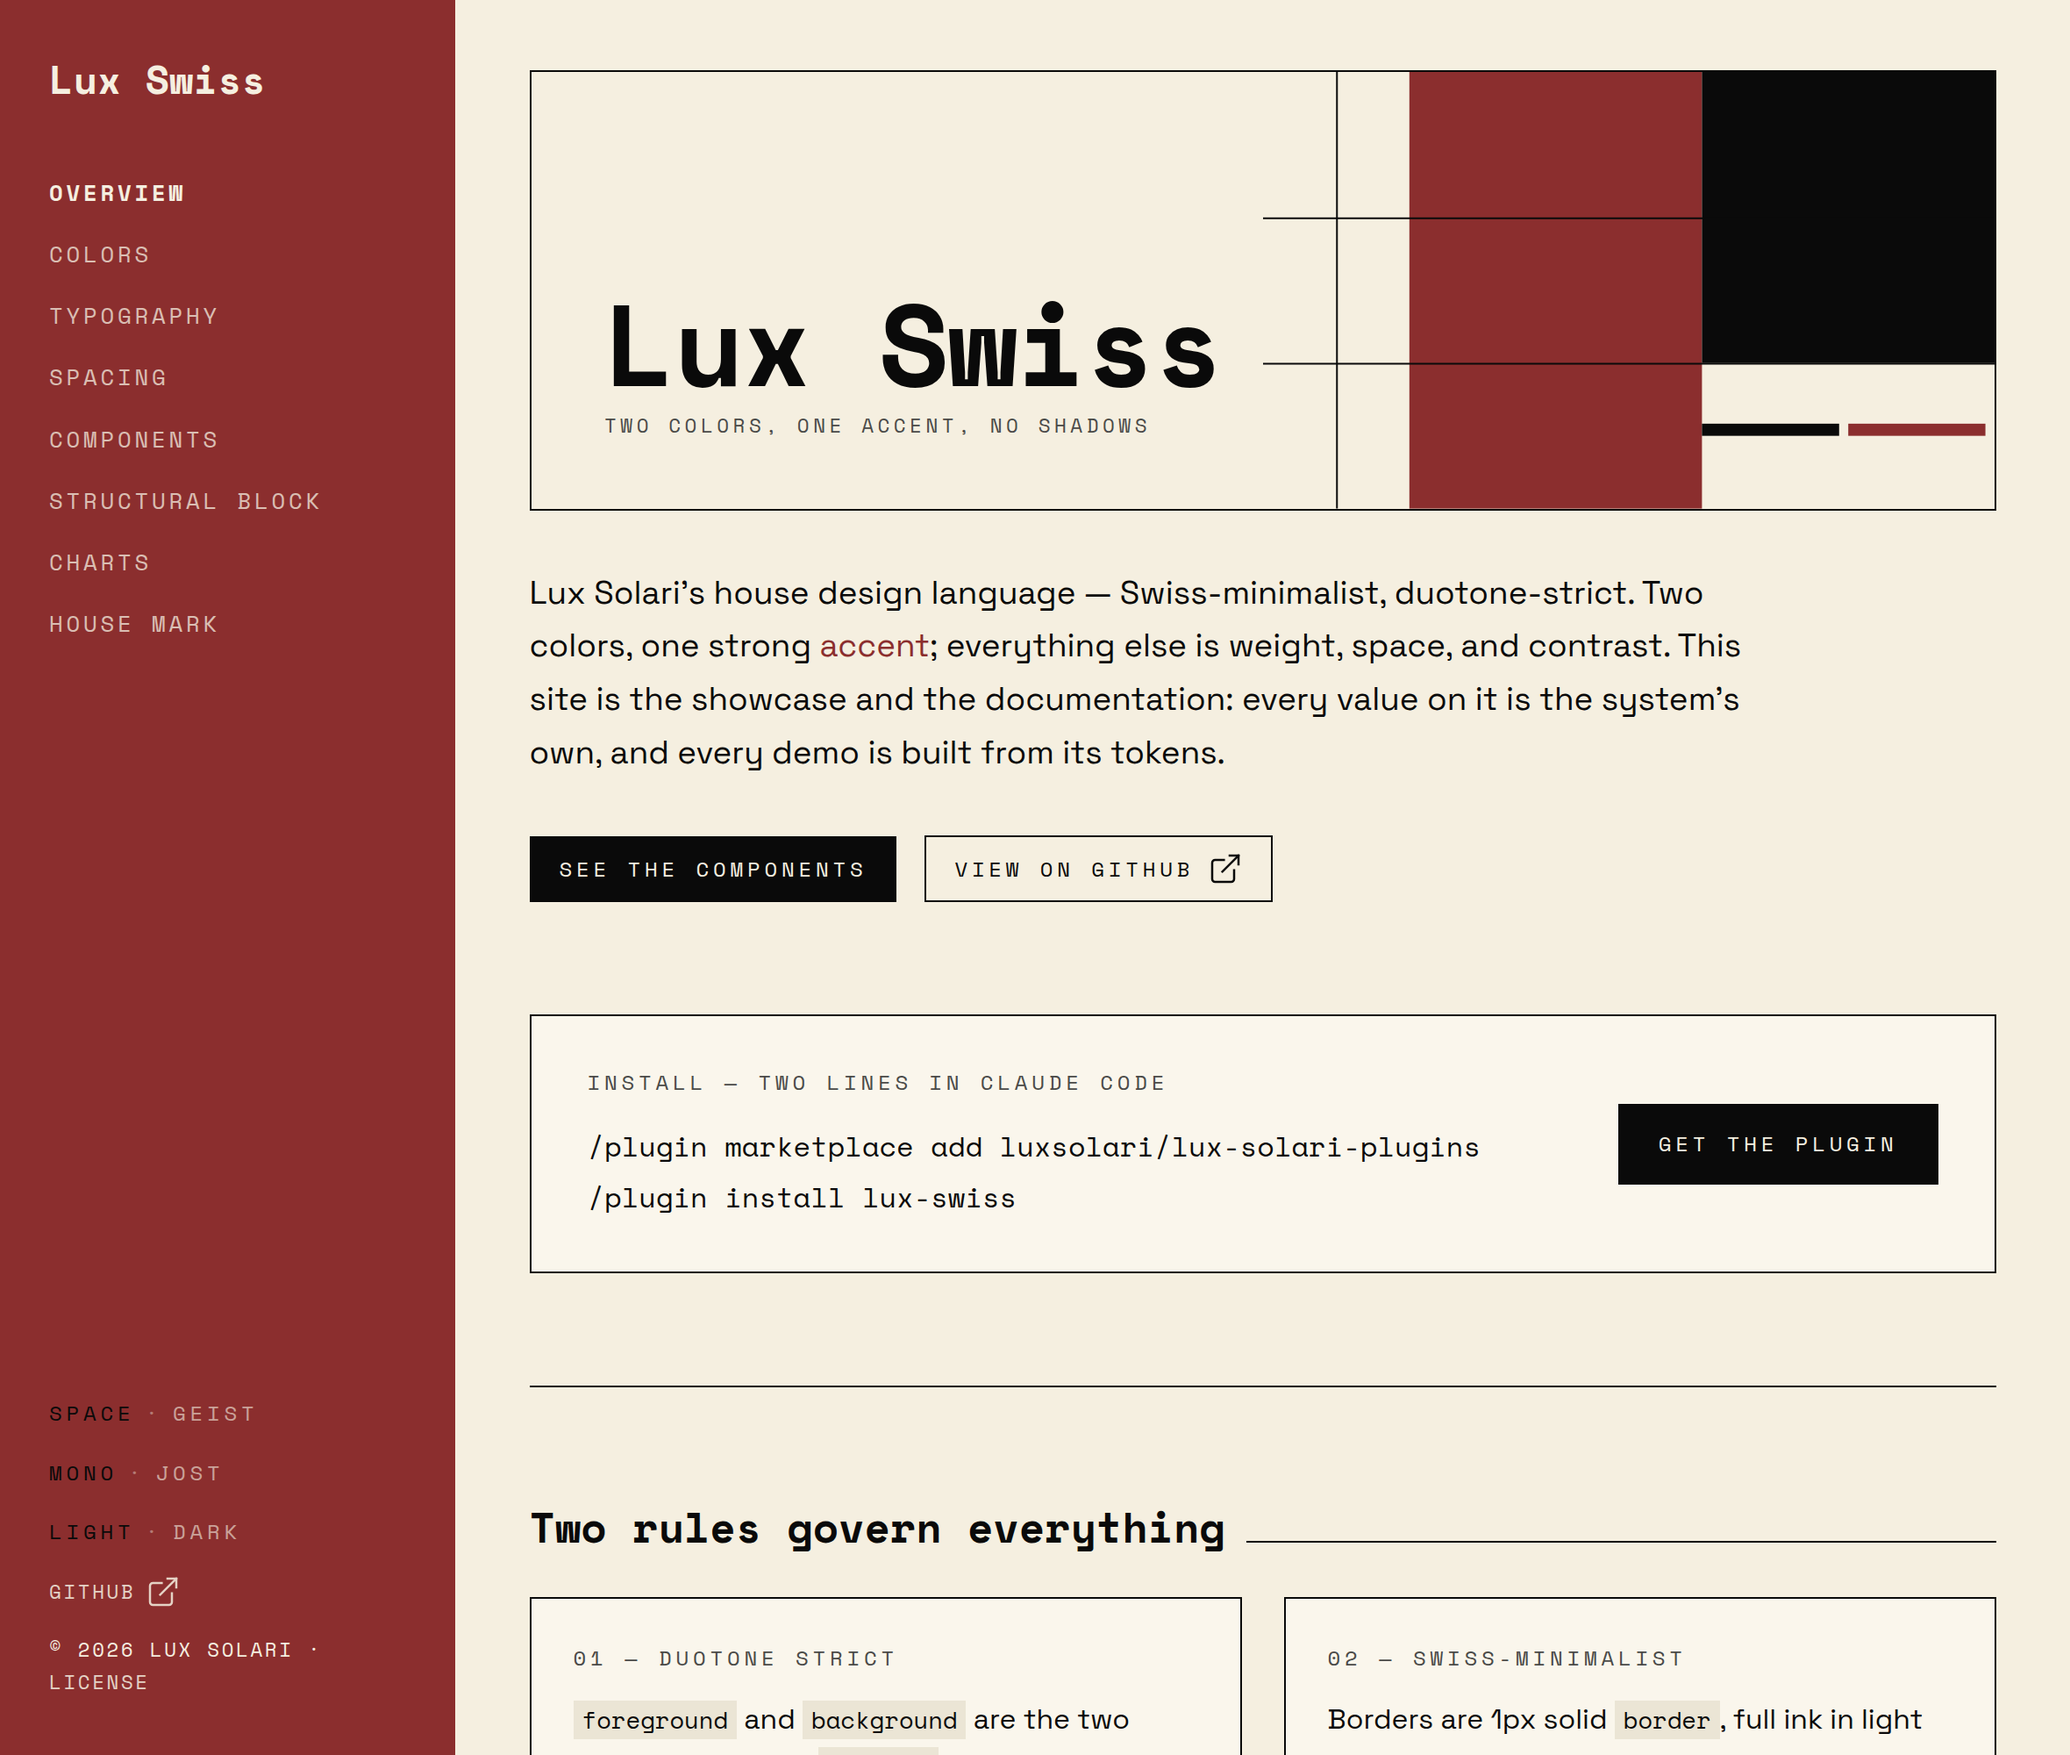
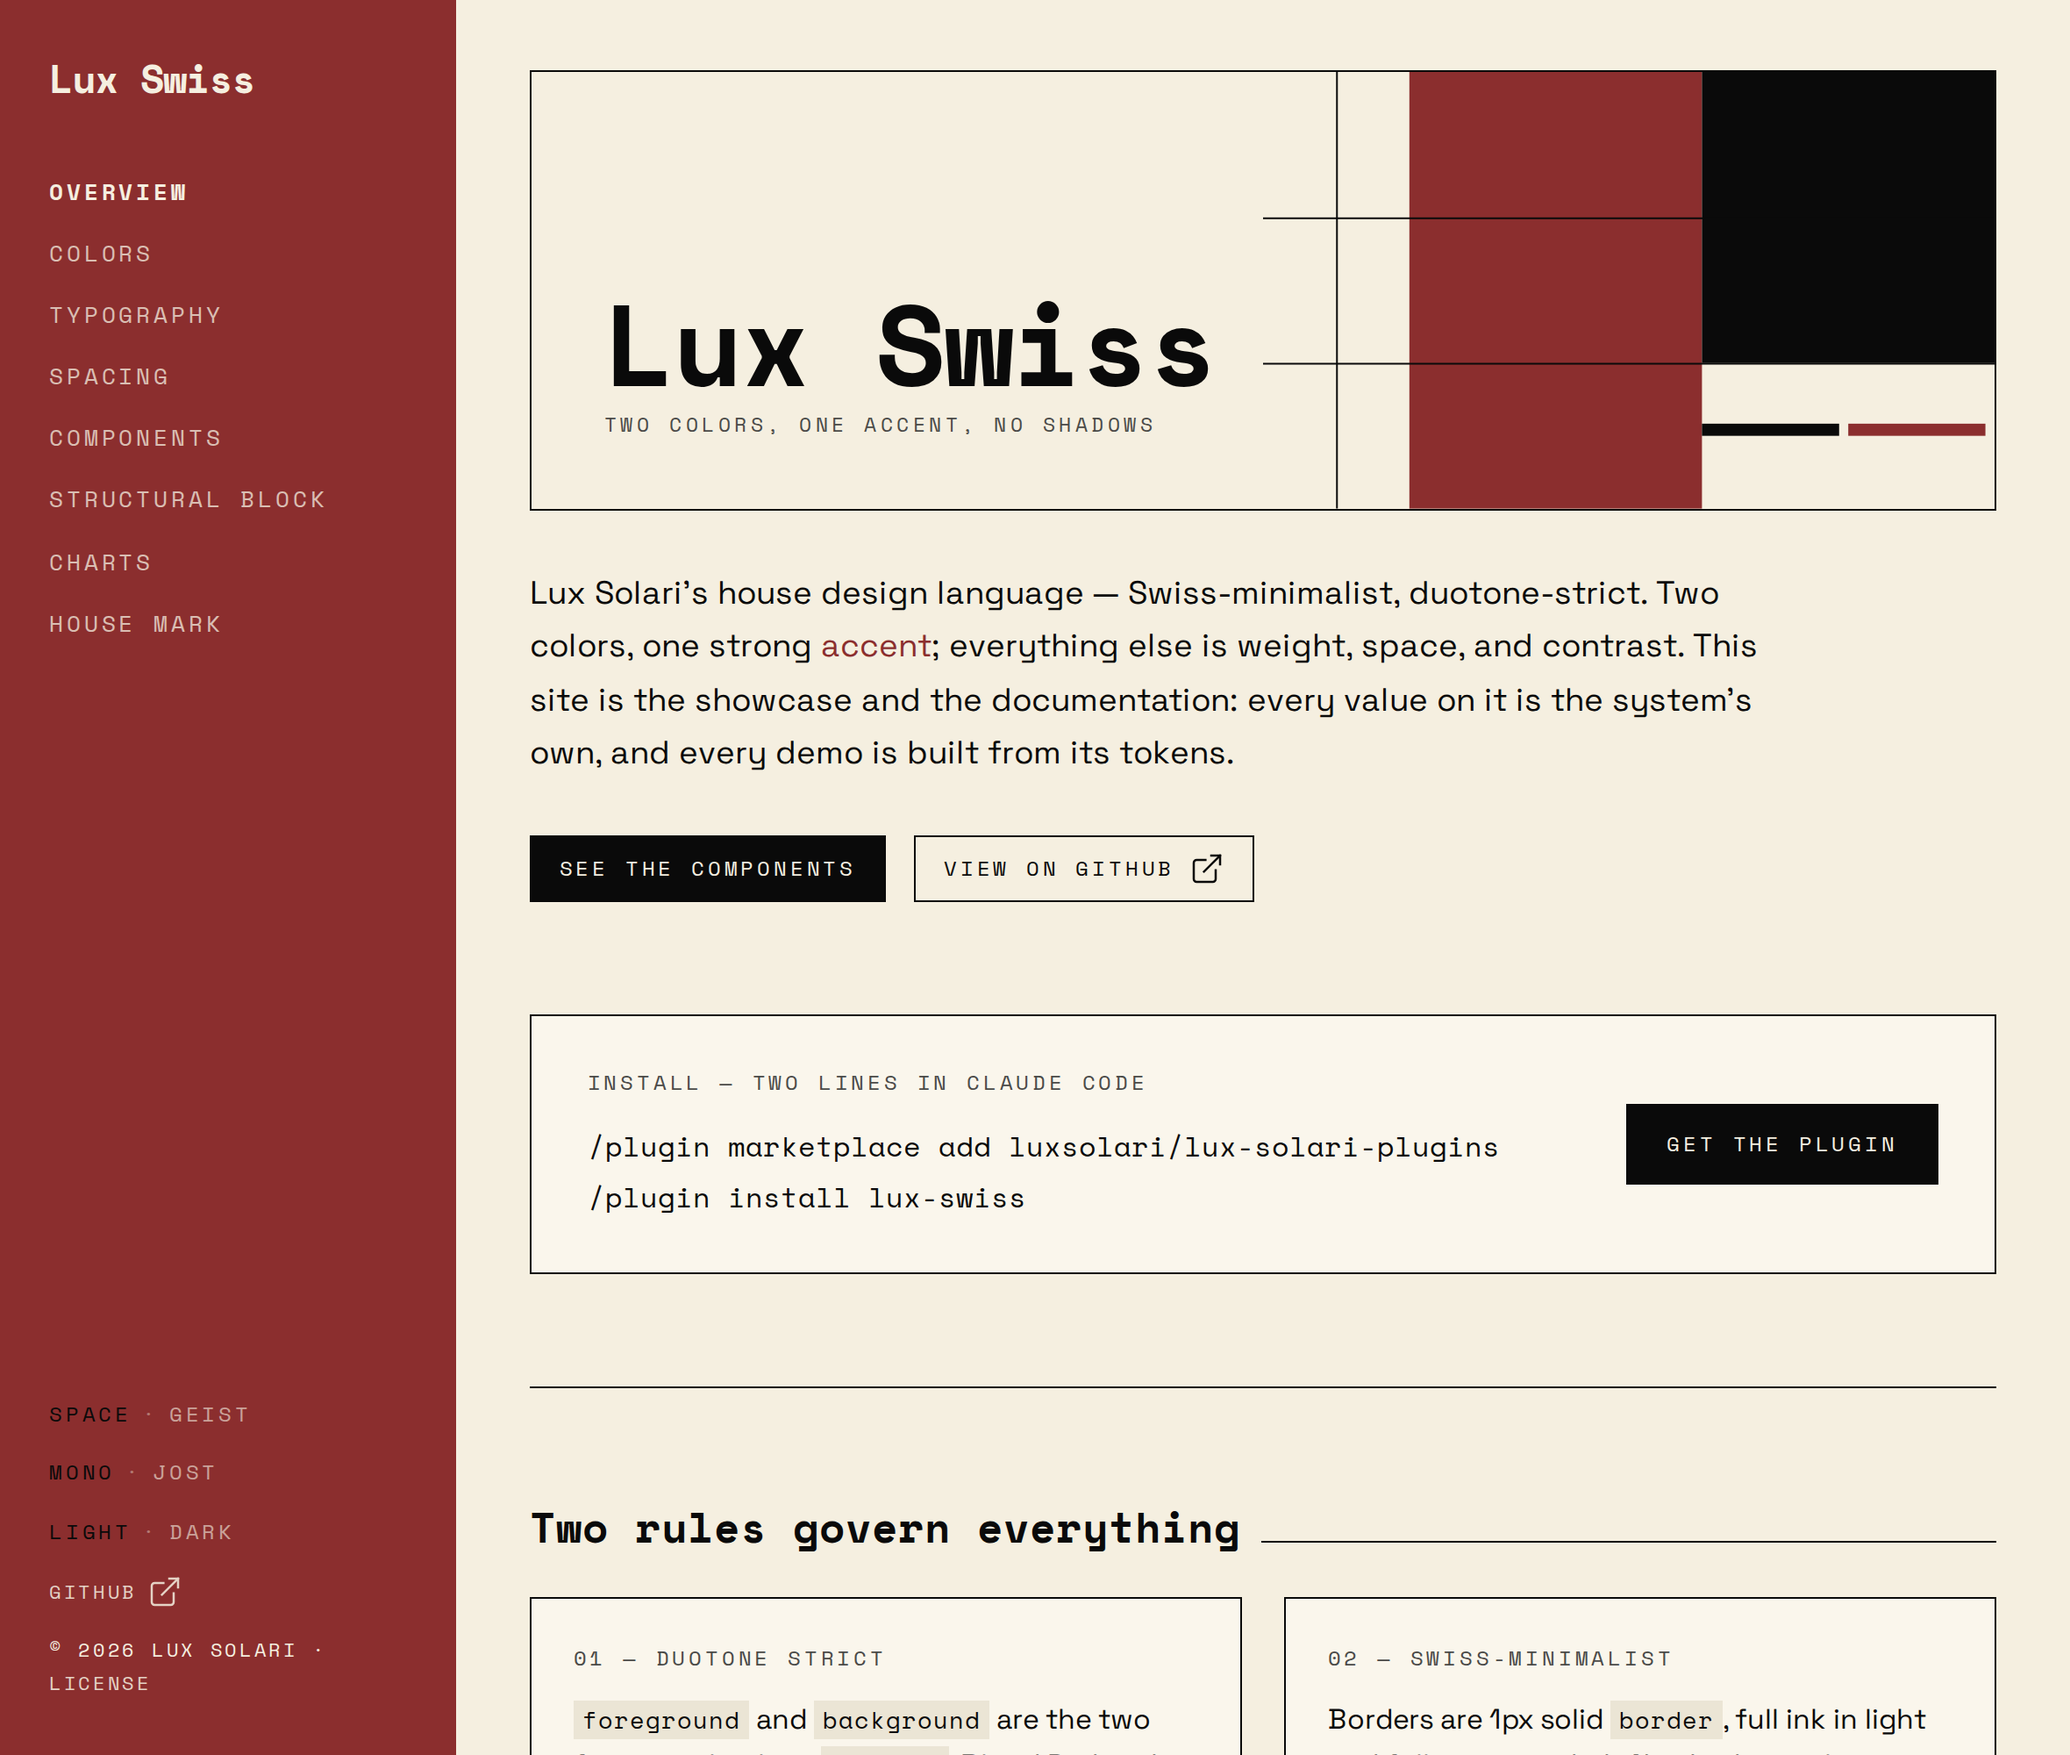
docs: add a components-at-a-glance gallery and regenerate the site screenshots

diff --git a/docs/components.html b/docs/components.html
@@ -76,6 +76,37 @@
             <nav class="row" style="gap:8px 20px; margin-bottom:8px;" aria-label="Components">
               <a class="label" href="#button">Button</a><a class="label" href="#tag">Tag</a><a class="label" href="#card">Card</a><a class="label" href="#input">Input</a><a class="label" href="#section-header">SectionHeader</a><a class="label" href="#toggle">Toggle</a><a class="label" href="#status-pip">StatusPip</a><a class="label" href="#list">List</a><a class="label" href="#table">Table</a><a class="label" href="#segment-stripe">SegmentStripe</a><a class="label" href="#sidebar">Sidebar</a><a class="label" href="#hero-band">HeroBand</a><a class="label" href="#modal">Modal</a><a class="label" href="#figure">Figure</a><a class="label" href="#chart">Chart</a><a class="label" href="#icon">Icon</a>
             </nav>
+            <p class="label sub" style="margin-top:24px;">At a glance — every pattern on the tokens · each card links to its guideline</p>
+            <div class="grid grid-auto">
+              <a class="demo index-card" href="#button"><span class="label">Buttons</span>
+                <div class="row" style="gap:10px;"><span class="btn btn-filled" style="padding:8px 14px; font-size:0.7rem;">Filled</span><span class="btn btn-outlined" style="padding:8px 14px; font-size:0.7rem;">Outlined</span><span class="btn btn-ghost" style="padding:8px 14px; font-size:0.7rem;">Ghost</span><span class="btn btn-destructive" style="padding:8px 14px; font-size:0.7rem;">Destructive</span><span class="btn btn-accent" style="padding:8px 14px; font-size:0.7rem;">Accent</span></div></a>
+              <a class="demo index-card" href="#tag"><span class="label">Tags</span>
+                <div class="row" style="gap:8px;"><span class="tag tag-neutral">Neutral</span><span class="tag tag-signal">Signal</span><span class="tag tag-outlined"><span class="dot"></span>Outlined</span><span class="tag tag-saved"><span class="dot"></span>Saved</span></div></a>
+              <a class="demo index-card" href="#status-pip"><span class="label">Status pips</span>
+                <div style="display:flex; flex-direction:column; gap:10px;"><span class="pip"><i></i>Connected</span><span class="pip warn"><i></i>Warning</span><span class="pip off"><i></i>Disconnected</span></div></a>
+              <a class="demo index-card field" href="#input"><span class="label">Input</span>
+                <span class="label" style="display:block; margin-bottom:8px;">Email</span><span style="display:block; border:1px solid var(--border); background:var(--input); padding:8px 12px; font-family:var(--font-mono); font-size:0.85rem; color:var(--muted-foreground);">you@example.com</span></a>
+              <a class="demo index-card" href="#list"><span class="label">List <span class="note">— divider, not a bullet</span></span>
+                <ul class="list-plain small"><li>First item</li><li>Second item</li><li>Third item</li></ul></a>
+              <a class="demo index-card" href="#table"><span class="label">Table <span class="note">— tabular-nums, no zebra</span></span>
+                <table class="data-table"><thead><tr><th>Metric</th><th class="num">Value</th></tr></thead><tbody><tr><td>Sessions</td><td class="num">1,209,384</td></tr><tr><td>Conversions</td><td class="num">18,050</td></tr><tr><td>Rate</td><td class="num">1.4931%</td></tr></tbody></table></a>
+              <a class="demo index-card" href="#card"><span class="label">Card</span>
+                <div class="card" style="padding:16px;"><p class="mono" style="font-weight:700;">Elevated surface</p><p class="small muted" style="margin-top:8px;">Depth is a background step, never a shadow.</p></div></a>
+              <a class="demo index-card" href="#card"><span class="label">Accent card <span class="note">— Red border + wash</span></span>
+                <div class="card card-accent" style="padding:16px;"><p class="mono" style="font-weight:700;">Accent card</p><p class="small muted" style="margin-top:8px;">More color on borders.</p></div></a>
+              <a class="demo index-card" href="#toggle"><span class="label">Toggle</span>
+                <div class="toggle"><span style="color:var(--foreground);">EN</span><span class="mid">·</span><span style="color:var(--muted-foreground);">ES</span></div></a>
+              <a class="demo index-card" href="#icon"><span class="label">Icons · Lucide, restyled</span>
+                <div class="row" style="gap:18px; color:var(--foreground);"><svg class="icon" viewBox="0 0 24 24"><line x1="4" y1="6" x2="20" y2="6"/><line x1="4" y1="12" x2="20" y2="12"/><line x1="4" y1="18" x2="20" y2="18"/></svg><svg class="icon" viewBox="0 0 24 24"><path d="M18 6 6 18"/><path d="m6 6 12 12"/></svg><svg class="icon" viewBox="0 0 24 24"><path d="M5 12h14"/><path d="m12 5 7 7-7 7"/></svg><svg class="icon" viewBox="0 0 24 24"><path d="M15 3h6v6"/><path d="M10 14 21 3"/><path d="M18 13v6a2 2 0 0 1-2 2H5a2 2 0 0 1-2-2V8a2 2 0 0 1 2-2h6"/></svg><svg class="icon" viewBox="0 0 24 24"><circle cx="12" cy="12" r="4"/><path d="M12 2v2"/><path d="M12 20v2"/><path d="m4.9 4.9 1.4 1.4"/><path d="m17.7 17.7 1.4 1.4"/><path d="M2 12h2"/><path d="M20 12h2"/><path d="m6.3 17.7-1.4 1.4"/><path d="m19.1 4.9-1.4 1.4"/></svg><svg class="icon" viewBox="0 0 24 24"><path d="M12 3a6 6 0 0 0 9 9 9 9 0 1 1-9-9Z"/></svg></div></a>
+              <a class="demo index-card" href="#button"><span class="label">Hover — destructive <span class="note">Red's real signal</span></span>
+                <div class="hover-pair"><div><span class="cap">Default</span><span class="btn btn-destructive">Delete</span></div><div><span class="cap">Hover</span><span class="btn btn-destructive is-hover-demo">Delete</span></div></div></a>
+              <a class="demo index-card" href="#sidebar"><span class="label">Hover — nav link <span class="note">Opacity shift, no second color</span></span>
+                <div class="on-red"><div><span class="cap" style="display:block; margin-bottom:8px;">Default</span><span class="demo-nav-link">Section</span></div><div><span class="cap" style="display:block; margin-bottom:8px;">Hover</span><span class="demo-nav-link is-hover-demo">Section</span></div></div></a>
+              <a class="demo index-card card-interactive" href="#card"><span class="label">Interactive card <span class="note">— hover to try</span></span>
+                <p class="mono" style="font-weight:700;">Click anywhere</p><p class="small muted" style="margin-top:8px;">Ink border at rest, Red on hover.</p></a>
+              <a class="demo index-card" href="#segment-stripe"><span class="label">Segment stripe</span>
+                <div style="display:flex; flex-direction:column; gap:16px;"><span class="stripe" aria-hidden="true"><i></i><i></i></span><span class="stripe hero" aria-hidden="true"><i></i><i></i></span><span class="stripe flourish" aria-hidden="true"><i></i><i></i></span></div></a>
+            </div>
           </section>
 
           <section id="button">

diff --git a/docs/assets/site.css b/docs/assets/site.css
@@ -140,6 +140,9 @@ footer { border-top:1px solid var(--border); padding:48px 0; }
 .index-card { display:block; text-decoration:none; color:inherit; border:1px solid var(--border);
   padding:24px; transition:border-color 0.15s; }
 .index-card:hover { border-color:var(--primary); }
+.index-card.demo { padding:20px; }
+.index-card.demo > .label { display:block; margin-bottom:16px; }
+.index-card.demo .btn, .index-card.demo .demo-nav-link { pointer-events:none; }
 .index-card h4 { font-family:var(--font-mono); font-size:1rem; margin-top:12px; }
 .index-card p { margin-top:8px; font-size:0.85rem; color:var(--muted-foreground); }
 

diff --git a/CHANGELOG.md b/CHANGELOG.md
@@ -6,6 +6,17 @@ All notable changes to this plugin are documented here. Format follows
 
 ## [Unreleased]
 
+### Added
+- **Components at a glance** — the Components page opens with a compact
+  gallery grid (buttons, tags, pips, input, list, table, cards, toggle,
+  icons, hover pairs, stripe), each card linking to its guideline.
+
+### Changed
+- README and social screenshots regenerated from the documentation site
+  with `scripts/capture/capture.mjs`; `charts.png` now shows the
+  hand-rolled SVG figures and a new `plot.png` the restyled Observable
+  Plot.
+
 ## [2.4.0] — 2026-09-29
 
 ### Added

diff --git a/README.md b/README.md
@@ -89,6 +89,7 @@ The component library, palette, and hand-rolled + Observable Plot charts:
 
 ![Component gallery](docs/assets/components.png)
 ![Charts](docs/assets/charts.png)
+![Observable Plot, restyled](docs/assets/plot.png)
 
 ## What it does
 
